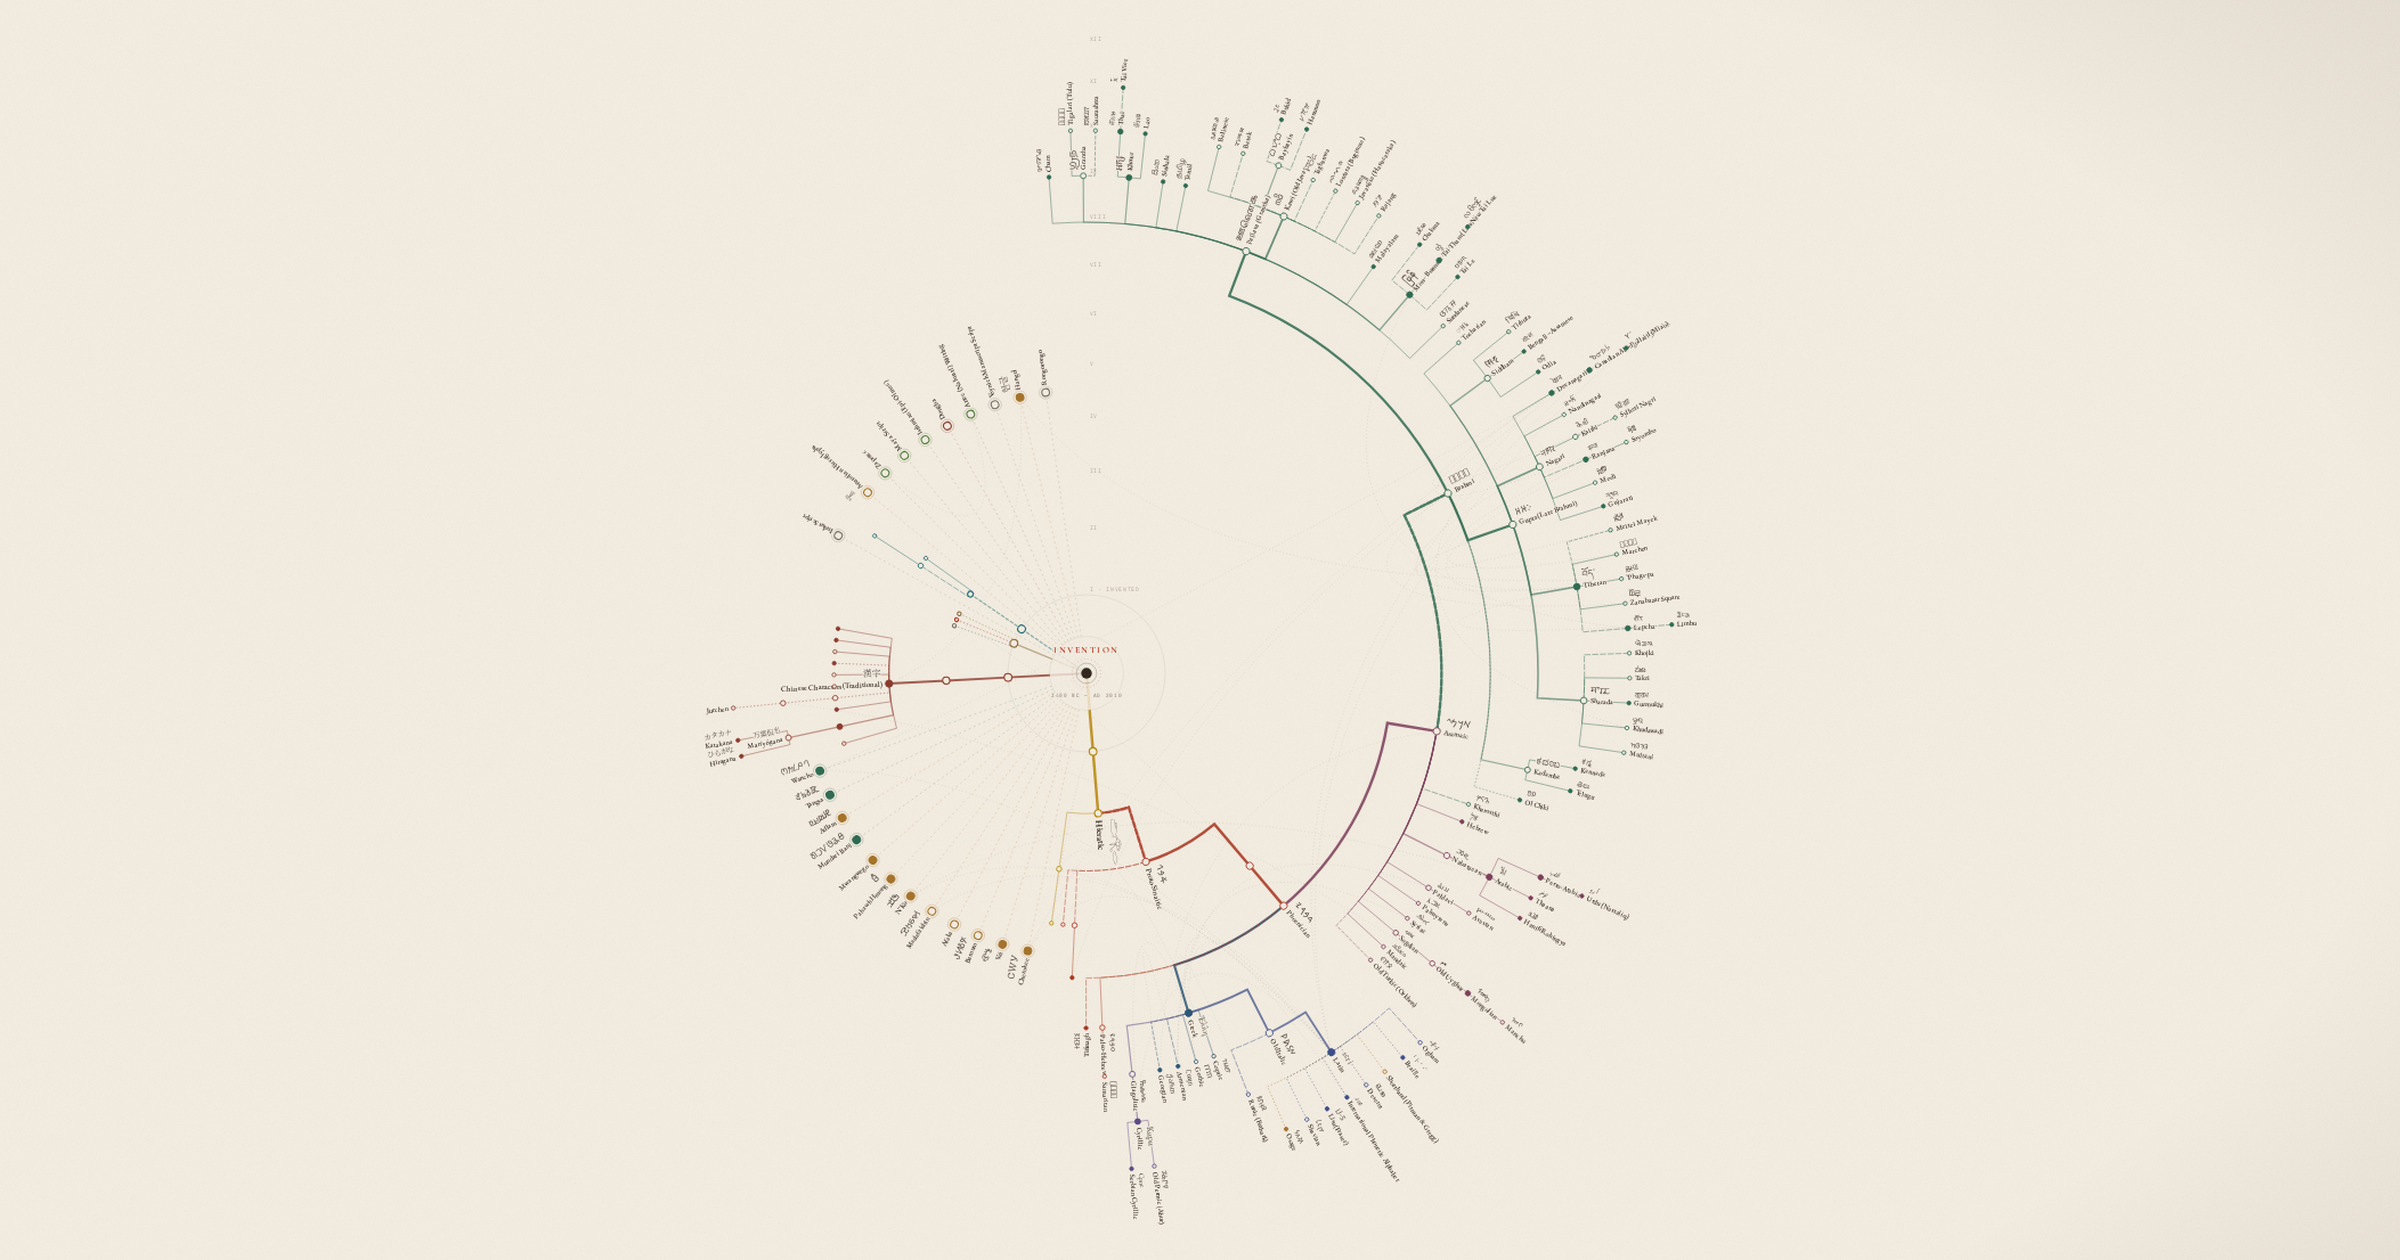
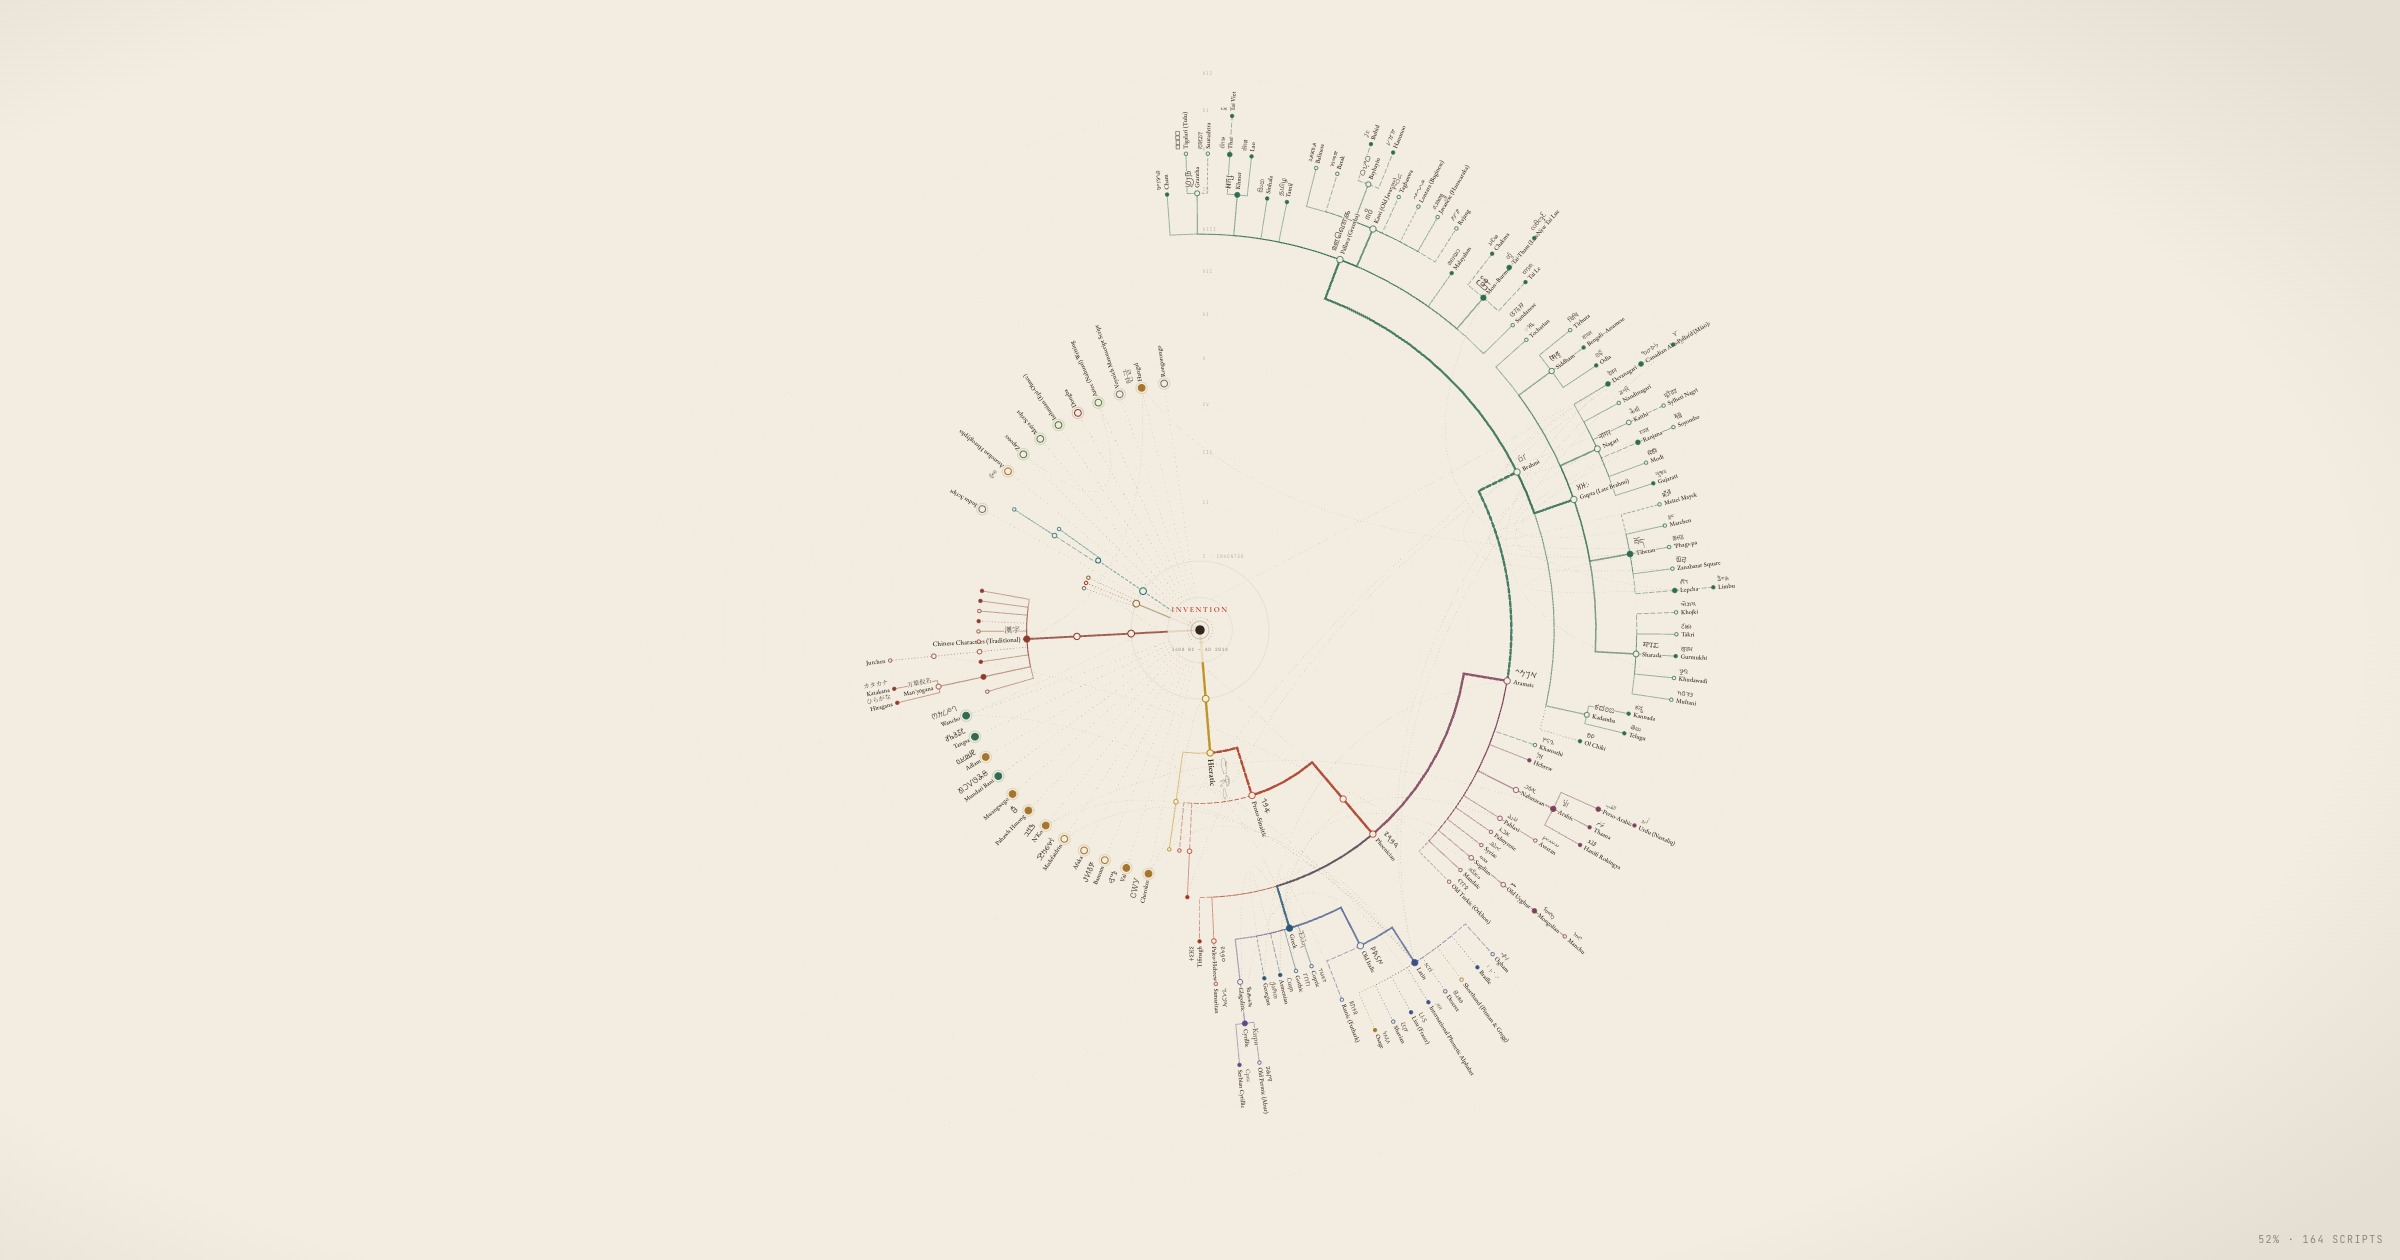
Replace untraced images with original interface artwork

diff --git a/client/index.html b/client/index.html
@@ -8,16 +8,16 @@
       name="description"
       content="An interactive genealogy of 164 writing systems, from the oracle bones and the Sinai turquoise mines to the alphabets invented in the last forty years." />
     <link rel="canonical" href="https://datapoems.io/writing/" />
-    <link rel="icon" type="image/png" href="%BASE_URL%media/aleph-mark.png" />
+    <link rel="icon" type="image/svg+xml" href="%BASE_URL%media/writing-mark.svg" />
     <meta property="og:title" content="The Tree of Writing" />
     <meta
       property="og:description"
       content="Four times, independently, humans invented writing. Everything else is inheritance." />
     <meta property="og:url" content="https://datapoems.io/writing/" />
-    <meta property="og:image" content="https://datapoems.io/writing/media/inscription-specimens.jpg" />
+    <meta property="og:image" content="https://datapoems.io/writing/media/radial-card.jpg" />
     <meta name="twitter:card" content="summary_large_image" />
     <meta name="twitter:title" content="The Tree of Writing" />
-    <meta name="twitter:image" content="https://datapoems.io/writing/media/inscription-specimens.jpg" />
+    <meta name="twitter:image" content="https://datapoems.io/writing/media/radial-card.jpg" />
     <link rel="preconnect" href="https://fonts.googleapis.com" />
     <link rel="preconnect" href="https://fonts.gstatic.com" crossorigin />
     <link

diff --git a/client/src/pages/About.tsx b/client/src/pages/About.tsx
@@ -8,9 +8,6 @@ import { ArrowLeft, ArrowUpRight } from "lucide-react";
 import PlateNav from "@/components/PlateNav";
 import { allScripts, familyColors, familyLabels, type Family } from "@/data";
 
-import { assetUrl } from "@/lib/asset";
-
-const SPECIMENS = assetUrl("media/inscription-specimens.jpg");
 
 function Rubric({ children }: { children: React.ReactNode }) {
   return (
@@ -41,11 +38,10 @@ export default function About() {
       {/* Opening plate */}
       <div className="relative border-b border-border">
         <div
-          className="h-[38vh] min-h-[240px] w-full bg-cover bg-center"
-          style={{ backgroundImage: `url(${SPECIMENS})` }}
-          role="img"
-          aria-label="A plate of inscription specimens from several ancient scripts"
-        />
+          className="flex h-[38vh] min-h-[240px] items-center justify-center gap-10 overflow-hidden px-6 text-[5rem] text-[var(--rubric)]/30"
+          aria-hidden="true">
+          <span>Α</span><span>अ</span><span>א</span><span>A</span>
+        </div>
         <div className="absolute inset-0 bg-gradient-to-t from-[var(--vellum)] via-[var(--vellum)]/20 to-transparent" />
         <div className="absolute bottom-5 left-0 right-0">
           <div className="mx-auto max-w-5xl px-6">

diff --git a/client/src/pages/Home.tsx b/client/src/pages/Home.tsx
@@ -32,7 +32,7 @@ import { allScripts, scriptById, typologyLabels } from "@/data";
 import { useViewport } from "@/hooks/useViewport";
 import { assetUrl } from "@/lib/asset";
 
-const LOGO = assetUrl("media/aleph-mark.png");
+const LOGO = assetUrl("media/writing-mark.svg");
 const CORPUS_COUNT = allScripts.filter((s) => s.id !== "root").length;
 
 export default function Home() {

diff --git a/client/src/components/PlateCartouche.tsx b/client/src/components/PlateCartouche.tsx
@@ -3,7 +3,7 @@ import { scriptById } from "@/data";
 
 import { assetUrl } from "@/lib/asset";
 
-const LOGO = assetUrl("media/aleph-mark.png");
+const LOGO = assetUrl("media/writing-mark.svg");
 
 const FOUR = [
   { id: "cuneiform", place: "Mesopotamia", year: "c. 3400 BC" },

diff --git a/client/src/components/PlateNav.tsx b/client/src/components/PlateNav.tsx
@@ -7,7 +7,7 @@
 import { Link, useLocation } from "wouter";
 import { assetUrl } from "@/lib/asset";
 
-const LOGO = assetUrl("media/aleph-mark.png");
+const LOGO = assetUrl("media/writing-mark.svg");
 
 const PLATES = [
   { href: "/", label: "The chart", roman: "I" },

diff --git a/README.md b/README.md
@@ -72,7 +72,7 @@ The poster export builds its broadside in an isolated iframe and copies only the
 
 ## Sources and limits
 
-Records include source links; the geographic and transmission policies explain how those sources support the map. Some references are secondary summaries. Genealogical edges deliberately distinguish attested descent, probable descent, disputed descent, and stimulus diffusion. The atlas does not present uncertain relationships as settled fact.
+Records include source links; the geographic and transmission policies explain how those sources support the map. Some references are secondary summaries. Genealogical edges deliberately distinguish attested descent, probable descent, disputed descent, and stimulus diffusion. Read those edge categories alongside each record's sources; they describe the current interpretation, which may need revision.
 
 The default theme pairs a vellum-colored background with dark ink and red accents. Typefaces include Cormorant, EB Garamond, and JetBrains Mono.
 
@@ -88,6 +88,6 @@ using the same radial renderer. Capture this at 2400×1260, JPEG quality 92, for
 
 Original application code is [MIT licensed](LICENSE), copyright Luke Steuber.
 Unicode data, bundled fonts, and other third-party materials retain their own
-terms. See [THIRD_PARTY.md](THIRD_PARTY.md) for sources and unresolved asset
+terms. See [THIRD_PARTY.md](THIRD_PARTY.md) for sources and asset
 provenance. A source citation does not grant permission to redistribute its
 text or images.

diff --git a/THIRD_PARTY.md b/THIRD_PARTY.md
@@ -30,14 +30,14 @@ link their references. Those links document the research basis; they do not
 claim that every historical relationship is settled or that cited publications
 are MIT licensed.
 
-## Images awaiting provenance
+## Original interface artwork
 
-The repository includes `client/public/media/aleph-mark.png` and
-`client/public/media/inscription-specimens.jpg`, but their source, creator, and
-redistribution terms are not recorded. The inscription image is used by the
-essay and social preview; the aleph mark is used as the logo and favicon.
-Resolve that provenance or replace the assets before public redistribution.
+`client/public/media/writing-mark.svg` is an original geometric branch mark by
+Luke Steuber. The essay's opening uses ordinary text characters rather than
+photographs of historical inscriptions. Neither is evidence of an ancient
+artifact or a reconstruction of one.
 
-`radial-card.jpg` and `radial-card-midnight.jpg` are documented as captures of the
-atlas. Their publication still depends on clearing the materials visible in
-the captured interface.
+`radial-card.jpg` and `radial-card-midnight.jpg` are captures of this atlas.
+Earlier image assets with unrecorded provenance have been removed from the
+release tree. Historical Git revisions still contain those assets and must not
+be treated as cleared for public redistribution.
